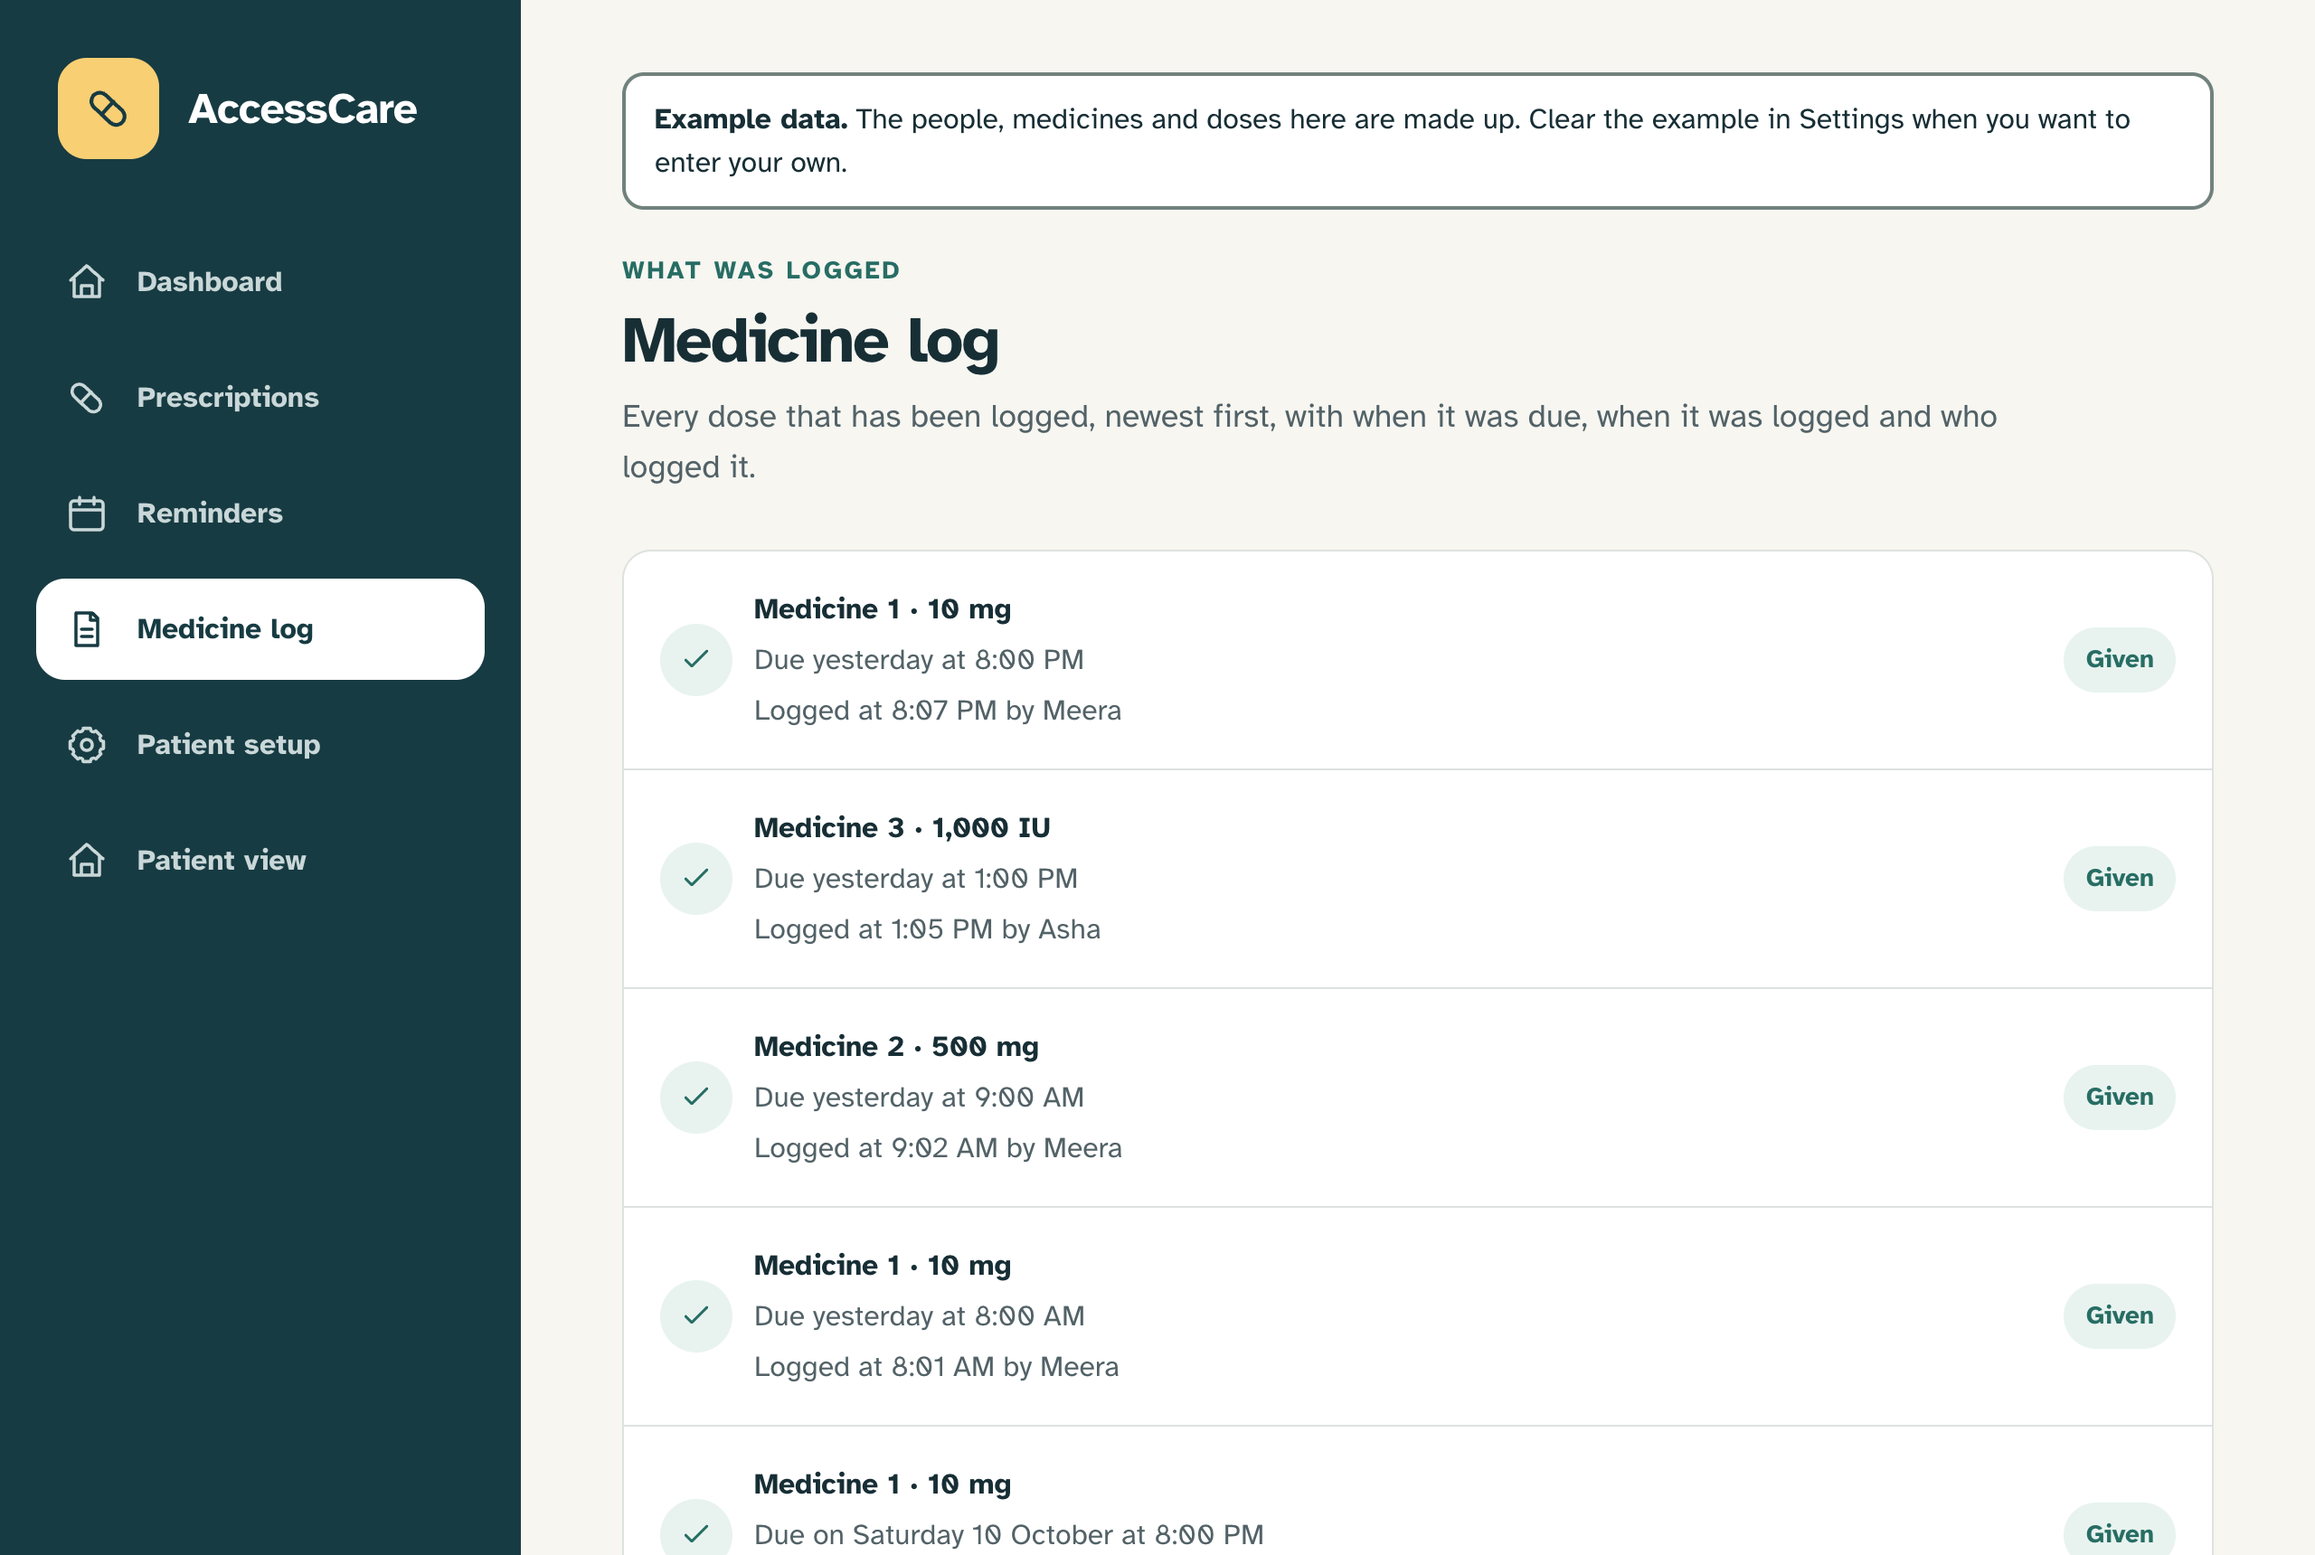
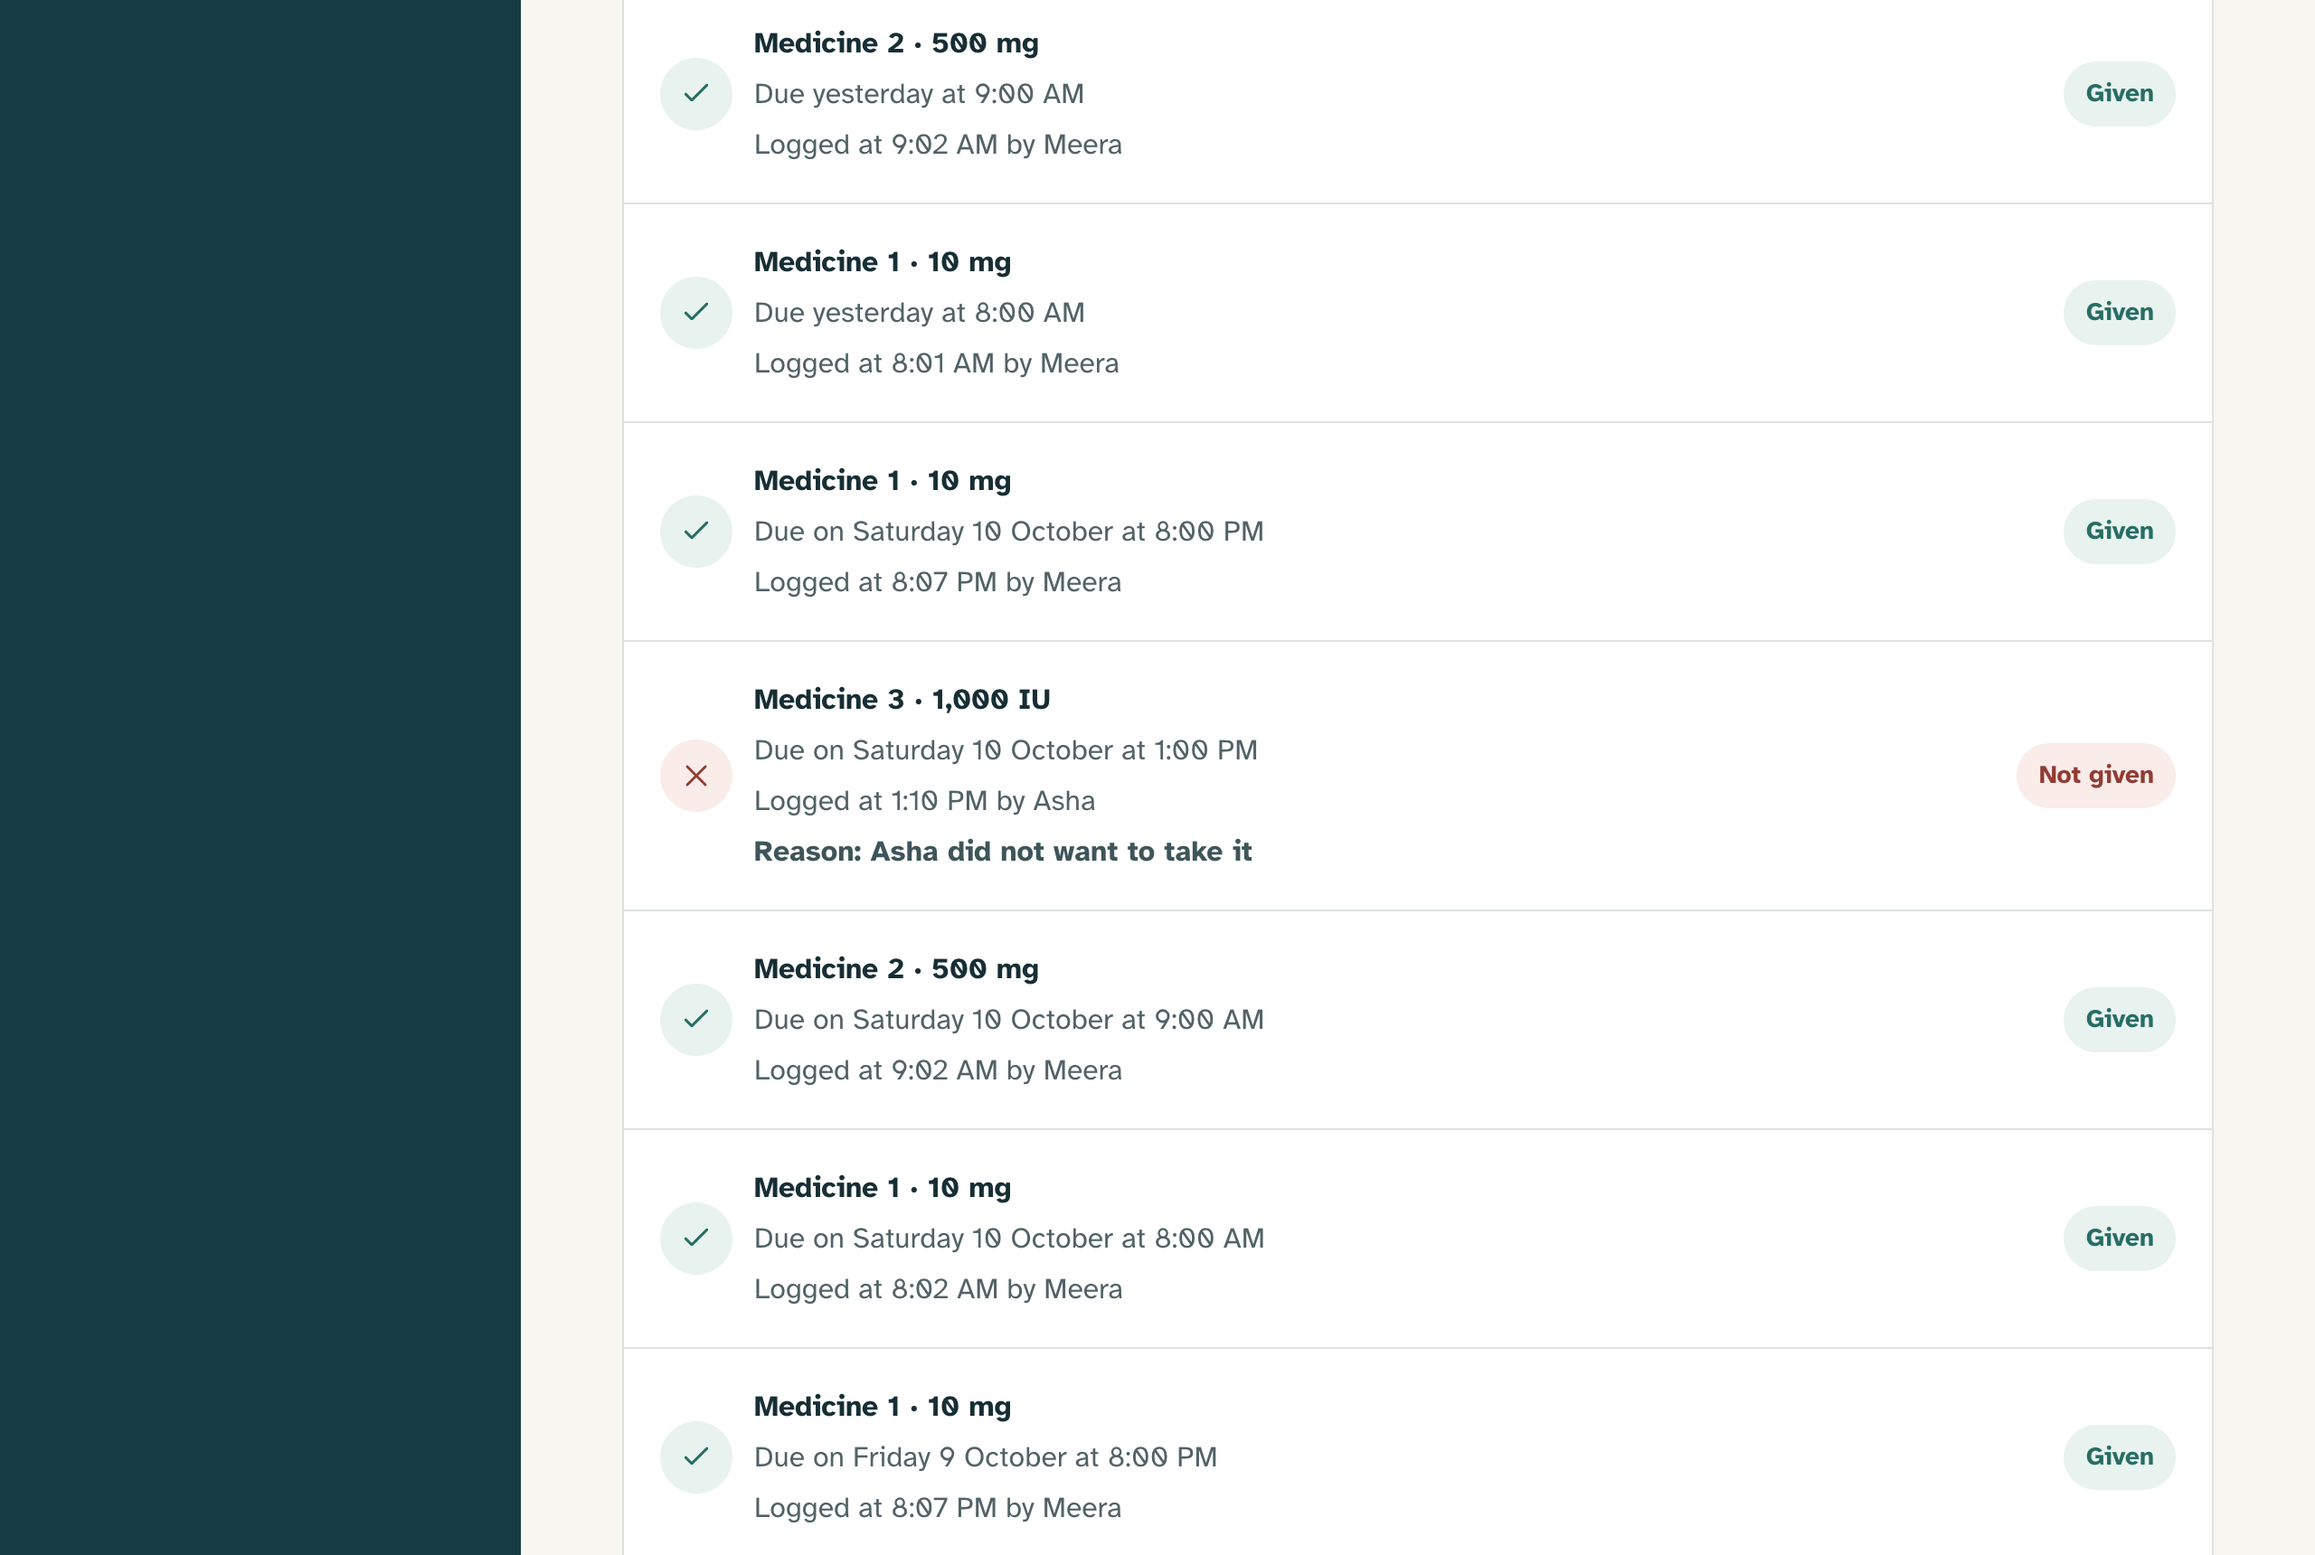
Show a not-given dose in the medicine log screenshot
The first image only showed doses that were given. This one is
scrolled to a dose Asha logged as not given, with its reason, which
is the part of the log the data model exists to keep. The alt text
says so.

diff --git a/README.md b/README.md
@@ -57,7 +57,7 @@ The scope is deliberately narrow. One moment in a carer's day handled completely
 
 The medicine log keeps the time each dose was due beside the time it was logged, and who logged it.
 
-![The medicine log, newest first. Each entry shows the medicine, when it was due, when it was logged and by whom, and whether it was given.](docs/screenshots/medicine-log.png)
+![The medicine log, newest first. Each entry shows the medicine, when it was due, when it was logged and by whom. Most were given. One was not given, logged by Asha, with the reason: Asha did not want to take it.](docs/screenshots/medicine-log.png)
 
 A dose that was not given always has a reason, chosen from seven.
 
